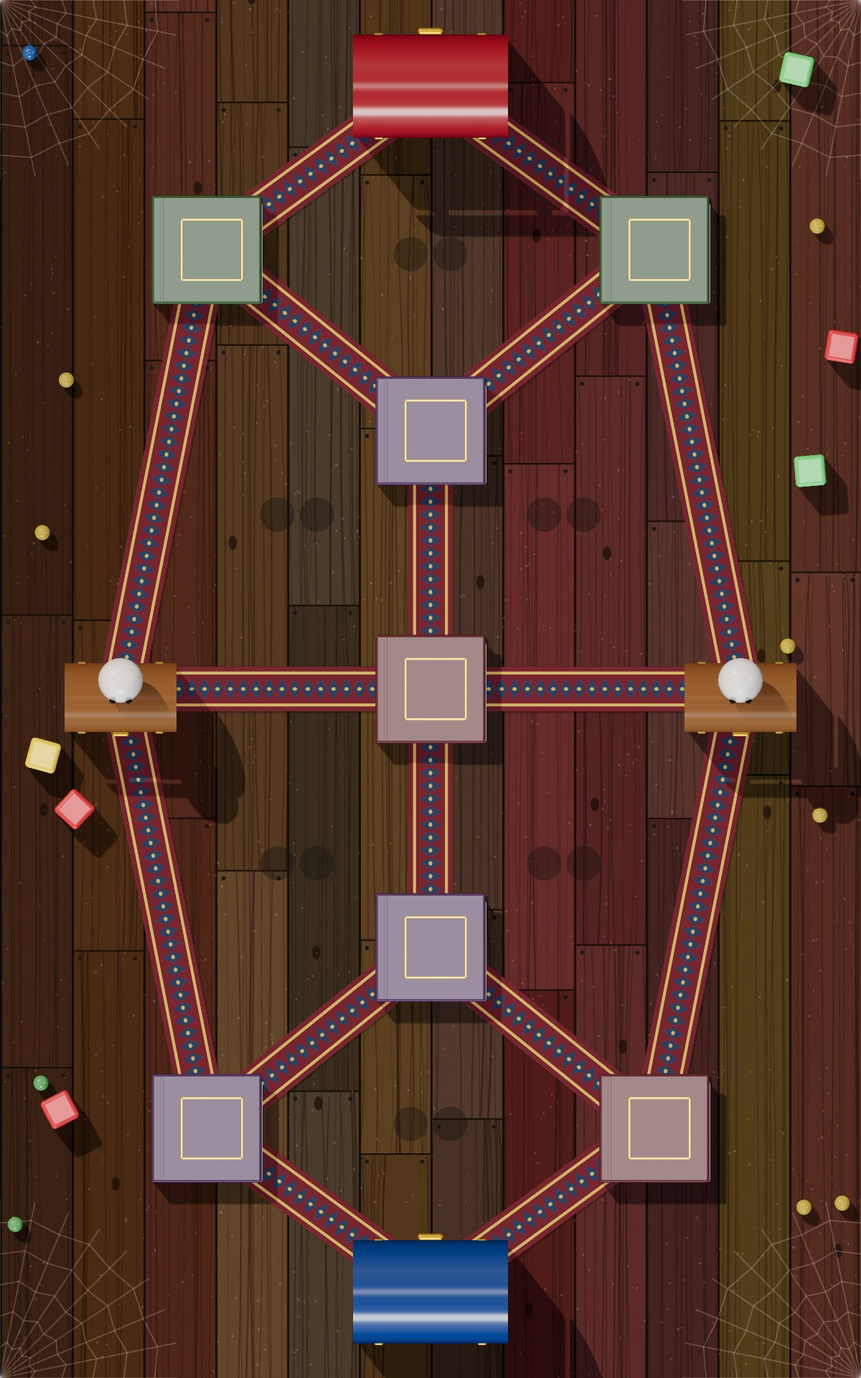
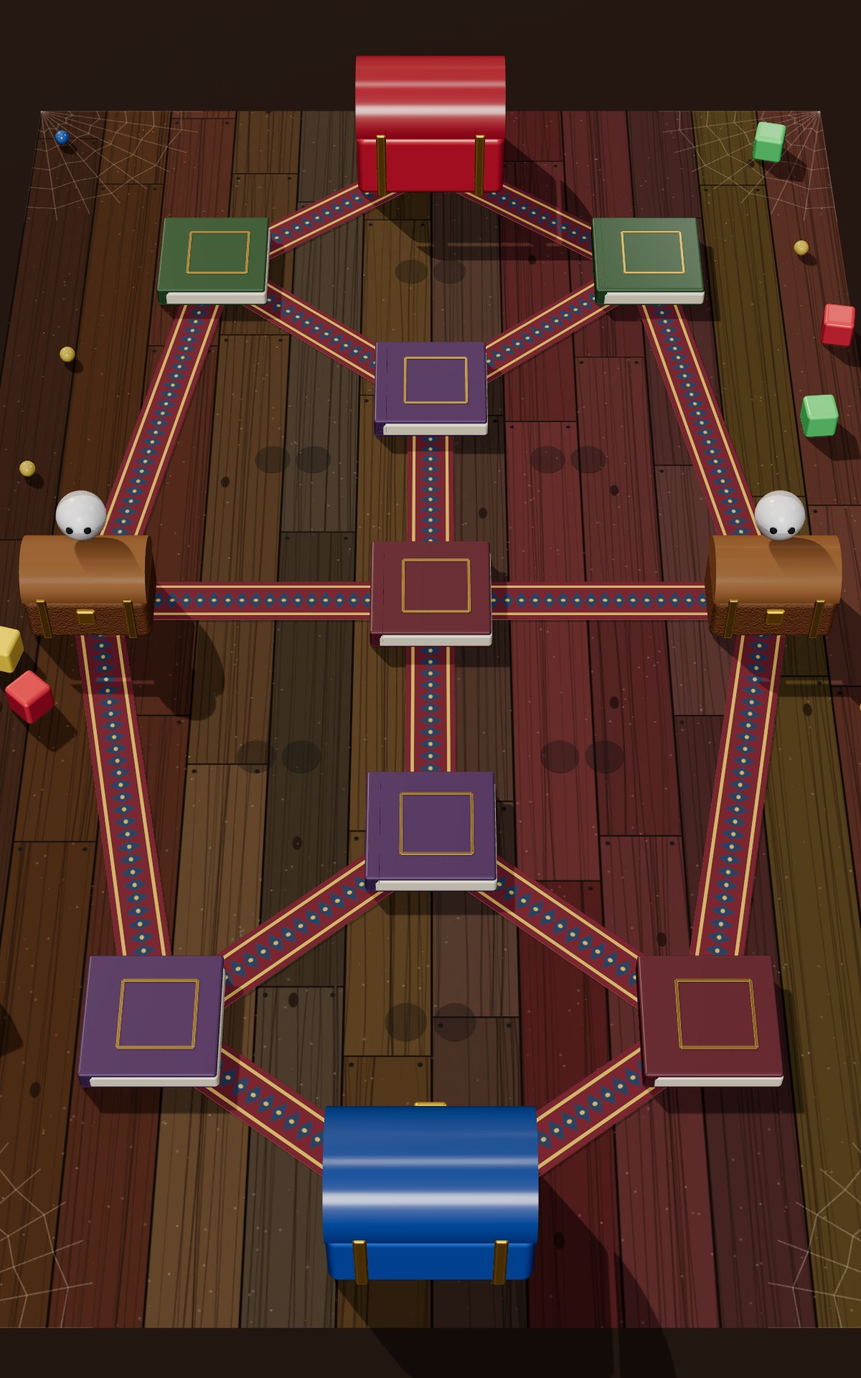
Arena view: angled 3D board camera, standing troops, new HUD and card tray (in progress)
Claude-Session: https://claude.ai/code/session_01JcXjzGuhMjiv5hGBxFbb7Y

diff --git a/js/layout.js b/js/layout.js
@@ -1,0 +1,2 @@
+// Generated by tools/render/render.cjs — screen positions of nodes on the angled board renders.
+export const LAYOUT = {"fort":{"r":{"nodes":{"HB":[500,210.51,0.91,0.62],"L0":[207.14,291.84,0.94,0.66],"R0":[792.86,291.84,0.94,0.66],"C1":[500,421.81,0.98,0.71],"L1":[158.5,487.26,1,0.74],"R1":[841.5,487.26,1,0.74],"L2":[169.23,692.21,1.07,0.84],"C2":[500,692.21,1.07,0.84],"R2":[830.77,692.21,1.07,0.84],"L3":[113.11,924.4,1.14,0.95],"R3":[886.89,924.4,1.14,0.95],"C3":[500,1012.13,1.16,1],"L4":[120.06,1211.62,1.23,1.11],"R4":[879.94,1211.62,1.23,1.11],"HR":[500,1394.82,1.27,1.2]},"medals":[[[478.35,311.71,0.94],[521.65,311.71,0.94]],[[315.91,480.01,0.99],[361.56,480.01,0.99]],[[638.44,480.01,0.99],[684.09,480.01,0.99]],[[251.01,633.81,1.04],[298.8,633.81,1.04]],[[701.2,633.81,1.04],[748.99,633.81,1.04]],[[240.51,778.63,1.08],[290.32,778.63,1.08]],[[709.68,778.63,1.08],[759.49,778.63,1.08]],[[288.85,962.48,1.14],[341.21,962.48,1.14]],[[658.79,962.48,1.14],[711.15,962.48,1.14]],[[472.09,1211.3,1.21],[527.91,1211.3,1.21]]]},"b":{"nodes":{"HB":[500,1394.82,1.27,1.2],"L0":[879.94,1211.62,1.23,1.11],"R0":[120.06,1211.62,1.23,1.11],"C1":[500,1012.13,1.16,1],"L1":[886.89,924.4,1.14,0.95],"R1":[113.11,924.4,1.14,0.95],"L2":[830.77,692.21,1.07,0.84],"C2":[500,692.21,1.07,0.84],"R2":[169.23,692.21,1.07,0.84],"L3":[841.5,487.26,1,0.74],"R3":[158.5,487.26,1,0.74],"C3":[500,421.81,0.98,0.71],"L4":[792.86,291.84,0.94,0.66],"R4":[207.14,291.84,0.94,0.66],"HR":[500,210.51,0.91,0.62]},"medals":[[[472.09,1211.3,1.21],[527.91,1211.3,1.21]],[[658.79,962.48,1.14],[711.15,962.48,1.14]],[[288.85,962.48,1.14],[341.21,962.48,1.14]],[[709.68,778.63,1.08],[759.49,778.63,1.08]],[[240.51,778.63,1.08],[290.32,778.63,1.08]],[[701.2,633.81,1.04],[748.99,633.81,1.04]],[[251.01,633.81,1.04],[298.8,633.81,1.04]],[[638.44,480.01,0.99],[684.09,480.01,0.99]],[[315.91,480.01,0.99],[361.56,480.01,0.99]],[[478.35,311.71,0.94],[521.65,311.71,0.94]]]}},"clouds":{"r":{"nodes":{"HB":[500,217.96,0.89,0.6],"L1":[191.1,349.61,0.94,0.66],"S1":[500,417.29,0.96,0.69],"R1":[808.9,349.61,0.94,0.66],"L2":[126.06,695.18,1.04,0.82],"M1":[333.8,695.18,1.04,0.82],"S2":[500,695.18,1.04,0.82],"M2":[666.2,695.18,1.04,0.82],"R2":[873.94,695.18,1.04,0.82],"L3":[115,1125.88,1.17,1.03],"S3":[500,1025.58,1.14,0.98],"R3":[885,1125.88,1.17,1.03],"HR":[500,1387.87,1.23,1.16]},"medals":[[[398.52,334.06,0.92]],[[601.48,334.06,0.92]],[[356.76,544.39,0.98],[402.04,544.39,0.98]],[[597.96,544.39,0.98],[643.24,544.39,0.98]],[[217.74,584.33,1]],[[782.26,584.33,1]],[[196.45,839.64,1.07]],[[803.55,839.64,1.07]],[[342.09,886.98,1.09],[392.02,886.98,1.09]],[[607.98,886.98,1.09],[657.91,886.98,1.09]],[[371.09,1181.53,1.17]],[[628.91,1181.53,1.17]]]},"b":{"nodes":{"HB":[500,1387.87,1.23,1.16],"L1":[885,1125.88,1.17,1.03],"S1":[500,1025.58,1.14,0.98],"R1":[115,1125.88,1.17,1.03],"L2":[873.94,695.18,1.04,0.82],"M1":[666.2,695.18,1.04,0.82],"S2":[500,695.18,1.04,0.82],"M2":[333.8,695.18,1.04,0.82],"R2":[126.06,695.18,1.04,0.82],"L3":[808.9,349.61,0.94,0.66],"S3":[500,417.29,0.96,0.69],"R3":[191.1,349.61,0.94,0.66],"HR":[500,217.96,0.89,0.6]},"medals":[[[628.91,1181.53,1.17]],[[371.09,1181.53,1.17]],[[607.98,886.98,1.09],[657.91,886.98,1.09]],[[342.09,886.98,1.09],[392.02,886.98,1.09]],[[803.55,839.64,1.07]],[[196.45,839.64,1.07]],[[782.26,584.33,1]],[[217.74,584.33,1]],[[597.96,544.39,0.98],[643.24,544.39,0.98]],[[356.76,544.39,0.98],[402.04,544.39,0.98]],[[601.48,334.06,0.92]],[[398.52,334.06,0.92]]]}},"lava":{"r":{"nodes":{"HB":[221.29,305.5,0.8,0.56],"a":[500,397.15,0.83,0.59],"b":[772.91,397.15,0.83,0.59],"c":[224.01,433.2,0.84,0.61],"d":[208.69,612.8,0.88,0.68],"e":[500,612.8,0.88,0.68],"f":[791.31,612.8,0.88,0.68],"g":[188.95,844.14,0.94,0.77],"h":[500,844.14,0.94,0.77],"i":[811.05,844.14,0.94,0.77],"j":[164.82,1126.95,1.02,0.9],"k":[500,1126.95,1.02,0.9],"l":[830.65,1073.89,1,0.87],"HR":[868.31,1304.34,1.05,0.97]},"medals":[[[358.65,441.26,0.83]],[[310.29,561.65,0.86]],[[620.66,512.44,0.85],[659.75,512.44,0.85]],[[308.66,735.21,0.91],[350.37,735.21,0.91],[392.09,735.21,0.91]],[[607.91,735.21,0.91],[649.63,735.21,0.91],[691.34,735.21,0.91]],[[710.36,927.65,0.96]],[[317.23,990.09,0.97],[361.95,990.09,0.97]],[[669.53,1087.77,1]]]},"b":{"nodes":{"HB":[868.31,1304.34,1.05,0.97],"a":[500,1126.95,1.02,0.9],"b":[164.82,1126.95,1.02,0.9],"c":[830.65,1073.89,1,0.87],"d":[811.05,844.14,0.94,0.77],"e":[500,844.14,0.94,0.77],"f":[188.95,844.14,0.94,0.77],"g":[791.31,612.8,0.88,0.68],"h":[500,612.8,0.88,0.68],"i":[208.69,612.8,0.88,0.68],"j":[772.91,397.15,0.83,0.59],"k":[500,397.15,0.83,0.59],"l":[224.01,433.2,0.84,0.61],"HR":[221.29,305.5,0.8,0.56]},"medals":[[[669.53,1087.77,1]],[[710.36,927.65,0.96]],[[317.23,990.09,0.97],[361.95,990.09,0.97]],[[607.91,735.21,0.91],[649.63,735.21,0.91],[691.34,735.21,0.91]],[[308.66,735.21,0.91],[350.37,735.21,0.91],[392.09,735.21,0.91]],[[310.29,561.65,0.86]],[[620.66,512.44,0.85],[659.75,512.44,0.85]],[[358.65,441.26,0.83]]]}},"attic":{"r":{"nodes":{"HB":[500,189.85,0.92,0.62],"a":[248.44,298.35,0.97,0.67],"b":[751.56,298.35,0.97,0.67],"c":[500,446.6,1.01,0.74],"d":[108.27,684.78,1.09,0.85],"e":[500,684.78,1.09,0.85],"f":[891.73,684.78,1.09,0.85],"g":[500,960.65,1.17,0.99],"h":[176.79,1181.27,1.24,1.11],"i":[823.21,1181.27,1.24,1.11],"HR":[500,1414.86,1.3,1.23]},"medals":[[[477.85,315.3,0.96],[522.15,315.3,0.96]],[[316.56,533.56,1.03],[363.97,533.56,1.03]],[[636.03,533.56,1.03],[683.44,533.56,1.03]],[[297.59,878.58,1.14],[349.9,878.58,1.14]],[[650.1,878.58,1.14],[702.41,878.58,1.14]],[[471.66,1186.76,1.23],[528.34,1186.76,1.23]]]},"b":{"nodes":{"HB":[500,1414.86,1.3,1.23],"a":[823.21,1181.27,1.24,1.11],"b":[176.79,1181.27,1.24,1.11],"c":[500,960.65,1.17,0.99],"d":[891.73,684.78,1.09,0.85],"e":[500,684.78,1.09,0.85],"f":[108.27,684.78,1.09,0.85],"g":[500,446.6,1.01,0.74],"h":[751.56,298.35,0.97,0.67],"i":[248.44,298.35,0.97,0.67],"HR":[500,189.85,0.92,0.62]},"medals":[[[471.66,1186.76,1.23],[528.34,1186.76,1.23]],[[650.1,878.58,1.14],[702.41,878.58,1.14]],[[297.59,878.58,1.14],[349.9,878.58,1.14]],[[636.03,533.56,1.03],[683.44,533.56,1.03]],[[316.56,533.56,1.03],[363.97,533.56,1.03]],[[477.85,315.3,0.96],[522.15,315.3,0.96]]]}},"bay":{"r":{"nodes":{"HB1":[160.87,216.07,0.92,0.62],"HB2":[839.13,216.07,0.92,0.62],"a":[156.76,393.79,0.98,0.7],"b":[500,331.66,0.96,0.68],"c":[843.24,393.79,0.98,0.7],"d":[323.15,587.92,1.04,0.79],"e":[685.52,556.53,1.03,0.78],"f":[110.41,825.22,1.11,0.91],"g":[500,843.45,1.12,0.92],"h":[887.65,807.17,1.11,0.9],"i":[259.32,1119.33,1.2,1.06],"j":[740.68,1119.33,1.2,1.06],"HR":[500,1389.67,1.27,1.2]},"medals":[[[284.46,386.06,0.97]],[[717.49,379.13,0.97]],[[503.35,501.04,1]],[[246.62,665.17,1.05],[295.09,665.17,1.05]],[[503.52,670.65,1.06]],[[802.36,590.25,1.03]],[[690.33,743.47,1.08]],[[291.74,936.46,1.14]],[[707.91,930.11,1.13]],[[472.61,1117.29,1.19],[527.39,1117.29,1.19]]]},"b":{"nodes":{"HB1":[873.16,1286.48,1.01,0.93],"HB2":[126.84,1286.48,1.01,0.93],"a":[833.18,1024.65,0.95,0.82],"b":[500,1099.73,0.97,0.85],"c":[166.82,1024.65,0.95,0.82],"d":[653.31,823.13,0.9,0.73],"e":[336.35,852.74,0.91,0.75],"f":[798.69,628.57,0.85,0.66],"g":[500,615.47,0.85,0.65],"h":[200.16,641.77,0.86,0.66],"i":[661.4,442.04,0.81,0.59],"j":[338.6,442.04,0.81,0.59],"HR":[500,323.6,0.77,0.54]},"medals":[[[711.98,1058.6,0.95]],[[285.18,1066.87,0.95]],[[496.93,930.79,0.92]],[[671.71,775.36,0.88],[712.32,775.36,0.88]],[[497.06,770.64,0.88]],[[236.16,842.82,0.9]],[[346.87,710.36,0.87]],[[652.57,570.31,0.83]],[[347.24,574.51,0.83]],[[481.49,460.05,0.8],[518.51,460.05,0.8]]]}},"trenches":{"r":{"nodes":{"HB":[500,237.14,0.88,0.6],"a":[201.15,309.88,0.91,0.63],"b":[798.85,309.88,0.91,0.63],"c":[181.04,519.3,0.97,0.72],"s1":[500,455.65,0.95,0.69],"d":[818.96,519.3,0.97,0.72],"e":[326.65,701.86,1.02,0.8],"f":[673.35,701.86,1.02,0.8],"g":[143.93,905.65,1.08,0.9],"s2":[500,988.32,1.1,0.94],"h":[856.07,905.65,1.08,0.9],"i":[115,1206.83,1.17,1.05],"j":[885,1206.83,1.17,1.05],"HR":[500,1369.46,1.2,1.13]},"medals":[[[479.2,335.23,0.9],[520.8,335.23,0.9]],[[294.48,438.36,0.93]],[[705.52,438.36,0.93]],[[338.07,567.99,0.97]],[[500,627.87,0.99]],[[661.93,567.99,0.97]],[[219.57,713.76,1.01]],[[780.43,713.76,1.01]],[[500,804.06,1.04]],[[323.43,872.71,1.06]],[[676.57,872.71,1.06]],[[256.29,1040.33,1.11]],[[743.71,1040.33,1.11]],[[473.49,1196.19,1.15],[526.51,1196.19,1.15]]]},"b":{"nodes":{"HB":[500,1369.46,1.2,1.13],"a":[885,1206.83,1.17,1.05],"b":[115,1206.83,1.17,1.05],"c":[856.07,905.65,1.08,0.9],"s1":[500,988.32,1.1,0.94],"d":[143.93,905.65,1.08,0.9],"e":[673.35,701.86,1.02,0.8],"f":[326.65,701.86,1.02,0.8],"g":[818.96,519.3,0.97,0.72],"s2":[500,455.65,0.95,0.69],"h":[181.04,519.3,0.97,0.72],"i":[798.85,309.88,0.91,0.63],"j":[201.15,309.88,0.91,0.63],"HR":[500,237.14,0.88,0.6]},"medals":[[[473.49,1196.19,1.15],[526.51,1196.19,1.15]],[[743.71,1040.33,1.11]],[[256.29,1040.33,1.11]],[[676.57,872.71,1.06]],[[500,804.06,1.04]],[[323.43,872.71,1.06]],[[780.43,713.76,1.01]],[[219.57,713.76,1.01]],[[500,627.87,0.99]],[[661.93,567.99,0.97]],[[338.07,567.99,0.97]],[[705.52,438.36,0.93]],[[294.48,438.36,0.93]],[[479.2,335.23,0.9],[520.8,335.23,0.9]]]}},"pool":{"r":{"nodes":{"HB1":[221.29,305.5,0.8,0.56],"HB2":[778.71,305.5,0.8,0.56],"a":[500,379.42,0.82,0.59],"b":[217.65,507.81,0.86,0.64],"d":[782.35,507.81,0.86,0.64],"c":[500,559.48,0.87,0.66],"e":[262.96,724.68,0.91,0.72],"m":[500,724.68,0.91,0.72],"f":[737.04,724.68,0.91,0.72],"g":[500,906.96,0.96,0.8],"h":[178.04,971.97,0.98,0.83],"i":[821.96,971.97,0.98,0.83],"j":[500,1154.02,1.02,0.91],"HR1":[131.69,1304.34,1.05,0.97],"HR2":[868.31,1304.34,1.05,0.97]},"medals":[[[339.45,442.77,0.83],[377.72,442.77,0.83]],[[622.28,442.77,0.83],[660.55,442.77,0.83]],[[349.67,637.14,0.88],[390.23,637.14,0.88]],[[609.77,637.14,0.88],[650.33,637.14,0.88]],[[340.85,839.03,0.93],[383.78,839.03,0.93]],[[616.22,839.03,0.93],[659.15,839.03,0.93]],[[307.64,1085.59,1],[353.49,1085.59,1]],[[646.51,1085.59,1],[692.36,1085.59,1]]]},"b":{"nodes":{"HB1":[868.31,1304.34,1.05,0.97],"HB2":[131.69,1304.34,1.05,0.97],"a":[500,1154.02,1.02,0.91],"b":[821.96,971.97,0.98,0.83],"d":[178.04,971.97,0.98,0.83],"c":[500,906.96,0.96,0.8],"e":[737.04,724.68,0.91,0.72],"m":[500,724.68,0.91,0.72],"f":[262.96,724.68,0.91,0.72],"g":[500,559.48,0.87,0.66],"h":[782.35,507.81,0.86,0.64],"i":[217.65,507.81,0.86,0.64],"j":[500,379.42,0.82,0.59],"HR1":[778.71,305.5,0.8,0.56],"HR2":[221.29,305.5,0.8,0.56]},"medals":[[[646.51,1085.59,1],[692.36,1085.59,1]],[[307.64,1085.59,1],[353.49,1085.59,1]],[[616.22,839.03,0.93],[659.15,839.03,0.93]],[[340.85,839.03,0.93],[383.78,839.03,0.93]],[[609.77,637.14,0.88],[650.33,637.14,0.88]],[[349.67,637.14,0.88],[390.23,637.14,0.88]],[[622.28,442.77,0.83],[660.55,442.77,0.83]],[[339.45,442.77,0.83],[377.72,442.77,0.83]]]}},"rocket":{"r":{"nodes":{"HB":[227.29,292.31,0.83,0.57],"a":[500,297.28,0.84,0.58],"b":[212.47,430.71,0.87,0.63],"d":[784.74,399.39,0.86,0.62],"c":[500,469.12,0.88,0.65],"e":[187.88,604.01,0.92,0.7],"f":[810.84,590.02,0.91,0.7],"x1":[300.64,720.21,0.95,0.75],"x2":[500,720.21,0.95,0.75],"x3":[699.36,720.21,0.95,0.75],"g":[164.35,860.78,0.99,0.81],"h":[834.17,844.61,0.98,0.81],"i":[500,1013.05,1.03,0.88],"j":[151.83,1112.5,1.06,0.93],"k":[844.1,1066.66,1.04,0.91],"l":[500,1276.81,1.1,1.01],"HR":[863.01,1316.74,1.1,1.02]},"medals":[[[340.22,378.8,0.85],[379.32,378.8,0.85]],[[594.07,398.65,0.86]],[[696.79,495.78,0.88]],[[319.33,595.75,0.91],[361.1,595.75,0.91]],[[605.09,632.87,0.92],[647.3,632.87,0.92]],[[219.53,736.19,0.95]],[[779.68,726.2,0.94]],[[344.01,835.31,0.97],[388.72,835.31,0.97]],[[650.44,877.88,0.98],[695.67,877.88,0.98]],[[272.95,1002.8,1.02]],[[384.11,1140.85,1.05]],[[650.76,1171.41,1.06],[699.6,1171.41,1.06]]]},"b":{"nodes":{"HB":[863.01,1316.74,1.1,1.02],"a":[500,1276.81,1.1,1.01],"b":[844.1,1066.66,1.04,0.91],"d":[151.83,1112.5,1.06,0.93],"c":[500,1013.05,1.03,0.88],"e":[834.17,844.61,0.98,0.81],"f":[164.35,860.78,0.99,0.81],"x1":[699.36,720.21,0.95,0.75],"x2":[500,720.21,0.95,0.75],"x3":[300.64,720.21,0.95,0.75],"g":[810.84,590.02,0.91,0.7],"h":[187.88,604.01,0.92,0.7],"i":[500,469.12,0.88,0.65],"j":[784.74,399.39,0.86,0.62],"k":[212.47,430.71,0.87,0.63],"l":[500,297.28,0.84,0.58],"HR":[227.29,292.31,0.83,0.57]},"medals":[[[650.76,1171.41,1.06],[699.6,1171.41,1.06]],[[384.11,1140.85,1.05]],[[272.95,1002.8,1.02]],[[650.44,877.88,0.98],[695.67,877.88,0.98]],[[344.01,835.31,0.97],[388.72,835.31,0.97]],[[779.68,726.2,0.94]],[[219.53,736.19,0.95]],[[605.09,632.87,0.92],[647.3,632.87,0.92]],[[319.33,595.75,0.91],[361.1,595.75,0.91]],[[696.79,495.78,0.88]],[[594.07,398.65,0.86]],[[340.22,378.8,0.85],[379.32,378.8,0.85]]]}}};

diff --git a/js/board.js b/js/board.js
@@ -1,9 +1,10 @@
 // SVG board renderer. Two layers:
 //  - static: terrain art (textures, paths, bases, H.Q.) — rendered once per map/orientation
 //  - dynamic: medals, troops, highlights and tap targets — re-rendered every update
-import { TEAM, troopArtGroup } from './troops.js';
+import { TEAM } from './troops.js';
 import { topOf, ownerOf, typeOf } from './engine.js';
-import { shade, C, E, R, P } from './paint.js';
+import { C, P } from './paint.js';
+import { LAYOUT } from './layout.js';
 
 export const W = 1000, H = 1600;
 const BASE = 128, HQ = 176;
@@ -56,88 +57,89 @@ const BOARD_DEFS = `
     <stop offset=".64" stop-color="#fff" stop-opacity=".4"/><stop offset=".8" stop-color="#fff" stop-opacity="0"/><stop offset="1" stop-color="#000" stop-opacity=".55"/></radialGradient>`;
 
 // ------------------------------------------------------------------ rendering
-const posFn = (m, flip) => (id) => { const n = m.nodes[id]; return flip ? { x: W - n.x, y: H - n.y } : { x: n.x, y: n.y }; };
+// Node positions on the angled renders: [x, y, scaleX, scaleY] in the 1000 x 1600 image space.
+const lay = (m, flip) => LAYOUT[m.id][flip ? 'b' : 'r'];
 
 // Terrain is a pre-rendered 3D image (tools/render); effect badges are drawn on top.
 export function renderStatic(m, { flip = false, lite = false } = {}) {
-  const P_ = posFn(m, flip);
+  const L = lay(m, flip);
   const src = lite ? `assets/boards/${m.id}-thumb.jpg` : `assets/boards/${m.id}-${flip ? 'b' : 'r'}.jpg`;
   let out = `<svg class="board board-static theme-${m.theme}" viewBox="0 0 ${W} ${H}" xmlns="http://www.w3.org/2000/svg"><defs>${BOARD_DEFS}</defs>`;
   out += `<image href="${src}" x="0" y="0" width="${W}" height="${H}" preserveAspectRatio="none"/>`;
   if (!lite) {
     for (const id in m.nodes) {
-      const n = m.nodes[id], p = P_(id);
-      if (n.special && n.special !== 'restrict') out += badge(p.x + 58, p.y + 54, n.special);
-      if (n.allow) out += allowTag(p.x, p.y + (n.hq ? 96 : 84), n.allow);
+      const n = m.nodes[id], [x, y, sx, sy] = L.nodes[id];
+      if (n.special && n.special !== 'restrict') out += `<g transform="translate(${x + 60 * sx} ${y + 50 * sy}) scale(${sx})">${badge(0, 0, n.special)}</g>`;
+      if (n.allow) out += `<g transform="translate(${x} ${y + (n.hq ? 92 : 80) * sy}) scale(${sx})">${allowTag(0, 0, n.allow)}</g>`;
     }
     out += `<rect width="${W}" height="${H}" fill="url(#b-vignette)" pointer-events="none"/>`;
   }
   return out + '</svg>';
 }
 
-function tokenSVG(s, nodeId, p, opts) {
+// A troop stands on its base as a 3D figure; covered troops show as stacked discs.
+function tokenSVG(s, nodeId, [x, y, sx, sy], opts) {
   const st = s.stacks[nodeId];
   if (!st || !st.length) return '';
   const top = topOf(s, nodeId);
   const color = ownerOf(top), t = typeOf(top), c = TEAM[color];
-  const depth = st.length;
-  let under = '';
-  for (let i = Math.min(depth - 1, 3); i >= 1; i--) {
-    const below = st[st.length - 1 - i];
-    under += R(p.x - 56 + i * 7, p.y - 56 + i * 7, 112, 112, 16, TEAM[ownerOf(below)].dark, 'v');
+  const depth = st.length, k = sx;
+  let discs = '';
+  const n = Math.min(depth, 4);
+  for (let i = n - 1; i >= 0; i--) {
+    const id = st[st.length - 1 - i], tc = TEAM[ownerOf(id)];
+    discs += `<ellipse cx="0" cy="${i * 9 * sy}" rx="${56 * sx}" ry="${56 * sy}" fill="${i ? tc.dark : tc.main}" stroke="${i ? '#0008' : '#fff'}" stroke-width="${i ? 2 : 4}"/>`;
   }
   const fresh = opts.fresh?.has(nodeId) ? ' fresh' : '';
-  return `<g class="stack" data-node="${nodeId}">
-    <rect x="${p.x - 50}" y="${p.y - 44}" width="${112 + (depth - 1) * 7}" height="${112 + (depth - 1) * 7}" rx="16" fill="#000" opacity=".45" filter="url(#f-blur2)"/>
-    ${under}
-    <g transform="translate(${p.x} ${p.y})"><g class="token${fresh}">
-      ${R(-56, -56, 112, 112, 16, c.main, 'v')}
-      ${R(-49, -49, 98, 98, 11, shade(c.dark, -0.35), '')}
-      ${R(-49, -49, 98, 98, 11, c.light, 's', 'opacity=".55"')}
-      <rect x="-54" y="-54" width="108" height="108" rx="15" fill="none" stroke="#fff" stroke-opacity=".35" stroke-width="2"/>
-      <g class="bob t${t}"><g transform="translate(-47 -42) scale(.92)">${troopArtGroup(t, color)}</g></g>
-      <g transform="translate(-46 -46)">${C(0, 0, 19, '#f3f5f8')}<circle r="19" fill="none" stroke="${c.dark}" stroke-width="3"/></g>
-      <text x="-46" y="-37" text-anchor="middle" font-size="26" font-weight="900" fill="${c.dark}" font-family="Nunito, sans-serif">${t === 0 ? '★' : t}</text>
-      ${depth > 1 ? `<g transform="translate(44 46)">${C(0, 0, 16, '#222', 'r')}<text y="7" text-anchor="middle" font-size="19" font-weight="800" fill="#fff" font-family="Nunito, sans-serif">${depth}</text></g>` : ''}
-    </g></g></g>`;
+  return `<g class="stack" data-node="${nodeId}" transform="translate(${x} ${y})">
+    <ellipse cx="${6 * sx}" cy="${(10 + (n - 1) * 9) * sy}" rx="${62 * sx}" ry="${60 * sy}" fill="#000" opacity=".35" filter="url(#f-blur2)"/>
+    ${discs}
+    <ellipse cx="0" cy="0" rx="${42 * sx}" ry="${42 * sy}" fill="${c.light}" opacity=".35"/>
+    <g class="token${fresh}"><g class="bob t${t}">
+      <image href="assets/troops/${t}-${color}.png" x="${-90 * k}" y="${-150 * k}" width="${180 * k}" height="${180 * k}"/>
+    </g></g>
+    <g transform="translate(${-58 * k} ${-118 * k}) scale(${k})">
+      ${C(0, 0, 21, c.main)}<circle r="21" fill="none" stroke="#fff" stroke-width="3.5"/>
+      <text y="9" text-anchor="middle" font-size="26" font-weight="900" fill="#fff" stroke="${c.dark}" stroke-width="1.5" font-family="'Lilita One', Nunito, sans-serif">${t === 0 ? '★' : t}</text>
+    </g>
+    ${depth > 1 ? `<g transform="translate(${56 * k} ${-112 * k}) scale(${k})">${C(0, 0, 16, '#222', 'r')}<text y="6.5" text-anchor="middle" font-size="18" font-weight="800" fill="#fff" font-family="Nunito, sans-serif">×${depth}</text></g>` : ''}
+  </g>`;
 }
 
 export function renderDynamic(s, m, opts = {}) {
-  const P_ = posFn(m, !!opts.flip);
-  const flip = !!opts.flip;
+  const L = lay(m, !!opts.flip);
   let out = `<svg class="board board-dyn" viewBox="0 0 ${W} ${H}" xmlns="http://www.w3.org/2000/svg">`;
   out += '<g class="medals">';
   m.regions.forEach((r, i) => {
-    const rx = flip ? W - r.x : r.x, ry = flip ? H - r.y : r.y;
     const taken = s.taken[i];
-    for (let k = 0; k < r.medals; k++) {
-      const x = rx + (k - (r.medals - 1) / 2) * 46;
-      if (taken) out += `<circle cx="${x}" cy="${ry}" r="17" fill="none" stroke="${TEAM[taken].main}" stroke-width="4" stroke-dasharray="6 5"/>`;
-      else out += `<image class="medal" href="assets/medal.png" x="${x - 23}" y="${ry - 23}" width="46" height="46"/>`;
+    for (const [x, y, k] of L.medals[i]) {
+      if (taken) out += `<ellipse cx="${x}" cy="${y}" rx="${17 * k}" ry="${12 * k}" fill="none" stroke="${TEAM[taken].main}" stroke-width="${4 * k}" stroke-dasharray="${6 * k} ${5 * k}"/>`;
+      else out += `<image class="medal" href="assets/medal.png" x="${x - 26 * k}" y="${y - 30 * k}" width="${52 * k}" height="${52 * k}"/>`;
     }
   });
   out += '</g>';
-  if (opts.recent) for (const id of opts.recent) { const p = P_(id); out += `<g class="recent"><rect x="${p.x - 75}" y="${p.y - 75}" width="150" height="150" rx="26" fill="none" stroke="#ff9f1c" stroke-width="8"/></g>`; }
-  out += '<g class="tokens">';
-  for (const id in s.stacks) out += tokenSVG(s, id, P_(id), opts);
-  out += '</g>';
+  const ring = (id, rpx, cls, extra = '') => { const [x, y, sx, sy] = L.nodes[id]; return `<ellipse class="${cls}" cx="${x}" cy="${y}" rx="${rpx * sx}" ry="${rpx * sy}" fill="none" ${extra}/>`; };
+  if (opts.recent) for (const id of opts.recent) out += `<g class="recent">${ring(id, 82, '', 'stroke="#ff9f1c" stroke-width="8"')}</g>`;
   if (opts.highlight) {
     out += '<g class="hl">';
-    for (const [id, kind] of opts.highlight) {
-      const p = P_(id), size = m.nodes[id].hq ? HQ + 14 : BASE + 26;
-      out += `<g class="hl-${kind}" data-node="${id}"><rect class="hl-ring" fill="none" x="${p.x - size / 2}" y="${p.y - size / 2}" width="${size}" height="${size}" rx="30"/></g>`;
-    }
+    for (const [id, kind] of opts.highlight) out += `<g class="hl-${kind}" data-node="${id}">${ring(id, m.nodes[id].hq ? 104 : 80, 'hl-ring')}</g>`;
     out += '</g>';
   }
+  // troops, far to near so nearer figures overlap farther ones
+  const ids = Object.keys(s.stacks).filter((id) => s.stacks[id].length).sort((a, b) => L.nodes[a][1] - L.nodes[b][1]);
+  out += '<g class="tokens">';
+  for (const id of ids) out += tokenSVG(s, id, L.nodes[id], opts);
+  out += '</g>';
   if (opts.ghost) {
-    const p = P_(opts.ghost.node), t = typeOf(opts.ghost.id), color = ownerOf(opts.ghost.id), c = TEAM[color];
-    out += `<g class="ghost-token" transform="translate(${p.x} ${p.y})">${R(-56, -56, 112, 112, 16, c.main, 'v', 'stroke="#fff" stroke-width="6"')}
-      <g class="bob t${t}"><g transform="translate(-47 -42) scale(.92)">${troopArtGroup(t, color)}</g></g></g>`;
+    const [x, y, sx, sy] = L.nodes[opts.ghost.node], t = typeOf(opts.ghost.id), color = ownerOf(opts.ghost.id), c = TEAM[color];
+    out += `<g class="ghost-token" transform="translate(${x} ${y})"><ellipse rx="${56 * sx}" ry="${56 * sy}" fill="${c.main}" stroke="#fff" stroke-width="5"/>
+      <g class="bob t${t}"><image href="assets/troops/${t}-${color}.png" x="${-90 * sx}" y="${-150 * sx}" width="${180 * sx}" height="${180 * sx}"/></g></g>`;
   }
+  // tap targets: base footprint plus the space a standing figure occupies, nearest on top
   out += '<g class="hits">';
-  for (const id in m.nodes) {
-    const p = P_(id), size = m.nodes[id].hq ? HQ + 20 : BASE + 30;
-    out += `<rect class="hit" data-node="${id}" x="${p.x - size / 2}" y="${p.y - size / 2}" width="${size}" height="${size}" fill="transparent"/>`;
+  for (const id of Object.keys(m.nodes).sort((a, b) => L.nodes[a][1] - L.nodes[b][1])) {
+    const [x, y, sx, sy] = L.nodes[id], w = (m.nodes[id].hq ? 190 : 150) * sx, up = 120 * sx, down = 75 * sy;
+    out += `<rect class="hit" data-node="${id}" x="${x - w / 2}" y="${y - up}" width="${w}" height="${up + down}" fill="transparent"/>`;
   }
   return out + '</g></svg>';
 }

diff --git a/css/style.css b/css/style.css
@@ -286,3 +286,84 @@ img.troop-art { width: 100%; height: 100%; object-fit: contain; display: block; 
 .card-art img.troop-art.idle { animation: bob 2.4s ease-in-out infinite; }
 .card-art img.t0.idle { animation: boing 1.6s ease-in-out infinite; }
 .card-art img.t7.idle, .card-art img.t5.idle { animation: stomp 1.8s ease-in-out infinite; }
+
+/* =====================================================================
+   Arena layout: full-bleed angled board with floating HUD and card tray
+   ===================================================================== */
+.game { background: #141a2e; }
+.game[data-theme="fort"] { background: #3d7426; }
+.game[data-theme="clouds"] { background: #e7c3e6; }
+.game[data-theme="lava"] { background: #2a1c16; }
+.game[data-theme="attic"] { background: #33221a; }
+.game[data-theme="bay"] { background: #d9e1e8; }
+.game[data-theme="trenches"] { background: #cfa962; }
+.game[data-theme="pool"] { background: #e2c18a; }
+.game[data-theme="rocket"] { background: #181c2d; }
+.game .board-wrap { position: absolute; inset: 0; z-index: 0; }
+.game .board-holder > div { inset: 0; }
+.bl-static svg { filter: none; }
+.game .hud-top { position: absolute; top: 0; left: 0; right: 0; background: linear-gradient(#0b1024ee, #0b102400); border: 0; padding-bottom: 22px; }
+.game .prompt { position: absolute; left: 8px; right: 8px; bottom: calc(var(--tray-h, 196px) + 6px); z-index: 4; }
+.game .prompt .bar { border-radius: 14px; border: 3px solid #0b1024; box-shadow: 0 6px 0 #0006, inset 0 2px 0 #fff8; }
+.game .prompt .bar.hint, .game .prompt .bar.recap { background: linear-gradient(#2c3878f2, #1b2352f2); }
+.game .toast-layer { top: 84px; }
+
+/* plates (player banners) */
+.plate { display: flex; align-items: center; gap: 6px; padding: 3px 8px 3px 3px; border-radius: 12px; min-width: 0; flex: 1 1 auto; max-width: 250px;
+  background: linear-gradient(#3d4c9a, #222c66); border: 2px solid #0b1024; box-shadow: inset 0 2px 0 #ffffff44, 0 3px 0 #0007; }
+.plate.red { background: linear-gradient(#d4484d, #8f1d22); }
+.plate.blue { background: linear-gradient(#4a86dc, #173f7a); }
+.plate.active { box-shadow: 0 0 0 3px var(--gold), 0 0 16px #ffd34d99, inset 0 2px 0 #ffffff55; }
+.plate-avatar { width: 40px; height: 40px; border-radius: 9px; background: radial-gradient(#ffffff55, #0003); flex: none; overflow: hidden; }
+.plate-info { min-width: 0; flex: 1; }
+.plate .pname { color: #fff !important; font-size: 16px; text-shadow: 0 2px 0 #0008; max-width: 100%; }
+.plate-sub { font-size: 10.5px; color: #ffffffcc; white-space: nowrap; font-weight: 800; }
+.plate-medals { display: flex; align-items: center; gap: 2px; background: #0b102488; border-radius: 10px; padding: 2px 7px 2px 3px; flex: none; }
+.plate-medals img { width: 24px; height: 24px; }
+.plate-medals b { font-family: 'Lilita One'; font-size: 20px; color: var(--gold); text-shadow: 0 2px 0 #000; }
+.plate-medals small { font-size: 11px; color: #fff9; font-weight: 800; }
+
+/* card tray */
+.game .hand-area { position: absolute; left: 0; right: 0; bottom: 0; z-index: 3; border: 0; padding: 8px 8px calc(8px + var(--safe-b));
+  background: linear-gradient(#2a3157f4, #141a33fa); border-top: 3px solid #0b1024; box-shadow: 0 -2px 0 #ffffff22 inset, 0 -8px 20px #0007; border-radius: 22px 22px 0 0; }
+.game .hud-me { margin-bottom: 4px; }
+.game .hud-me .plate { flex: 0 1 auto; max-width: 200px; }
+.game .hud-me .plate-avatar { display: none; }
+.turn-pill { font-size: 14px; padding: 5px 14px; box-shadow: inset 0 2px 0 #fff4; }
+.turn-pill.mine { background: linear-gradient(#ffe066, #f2a900); color: #4a2a00; border: 2px solid #7a4a00; box-shadow: inset 0 2px 0 #fff9, 0 3px 0 #0006; }
+.discard-btn { background: linear-gradient(#4a5486, #2a3157); border: 2px solid #0b1024; box-shadow: inset 0 2px 0 #fff4, 0 3px 0 #0006; border-radius: 10px; }
+.game .hand-row { gap: 8px; align-items: stretch; }
+.game .hand { padding-top: 14px; gap: 7px; }
+.game .card { width: calc((min(100vw, 560px) - 120px) / 4); max-width: 92px; height: auto; aspect-ratio: 3 / 4; border-radius: 12px; border: 3px solid #0b1024;
+  box-shadow: inset 0 2px 0 #ffffff88, inset 0 -3px 0 #0005, 0 5px 0 #0b1024; }
+.game .card::before { inset: 6px 6px 20px; }
+.game .card-name { font-size: 13px; bottom: 3px; }
+.game .card-badge { width: 32px; height: 32px; font-size: 20px; top: -11px; left: -10px; background: radial-gradient(circle at 35% 30%, #fff6c8, #ffd34d 55%, #c28a00); color: #5a3500; border: 3px solid #0b1024; }
+.game .card.selected { transform: translateY(-16px) scale(1.06); box-shadow: 0 0 0 4px var(--gold), 0 0 22px #ffd34dcc, 0 10px 0 #0b1024; }
+.game .draw-btn { width: 64px; justify-content: flex-end; }
+.game .db-card .card-back { width: 56px; height: 74px; border-radius: 10px; border-width: 3px; box-shadow: inset 0 2px 0 #fff6, 0 4px 0 #0b1024; }
+.game .draw-btn small { color: #c9d2ff; font-weight: 800; margin-top: 3px; }
+
+/* rack meter */
+.rack-meter { display: flex; align-items: center; gap: 8px; margin-top: 7px; }
+.rm-bar { flex: 1; display: flex; gap: 3px; padding: 4px; border-radius: 99px; background: #0b1024; box-shadow: inset 0 2px 4px #000a; }
+.rm-bar i { flex: 1; height: 12px; border-radius: 99px; background: #2a3157; }
+.rm-bar.red i.on { background: linear-gradient(#ff9a9e, #d23c41 60%, #8f1d22); box-shadow: inset 0 1px 0 #fff8; }
+.rm-bar.blue i.on { background: linear-gradient(#9cc6ff, #2f6fc6 60%, #173f7a); box-shadow: inset 0 1px 0 #fff8; }
+.rm-bar i.pin { background: repeating-linear-gradient(45deg, #777 0 4px, #444 4px 8px) !important; }
+.rm-label { font-family: 'Lilita One'; font-size: 20px; color: #fff; text-shadow: 0 2px 0 #000; min-width: 40px; }
+.rm-label small { font-size: 12px; color: #fff9; }
+
+/* turn banner */
+.turn-banner { position: absolute; inset: 0; display: flex; align-items: center; justify-content: center; pointer-events: none; z-index: 15; }
+.turn-banner .tb-inner { opacity: 0; font-family: 'Lilita One'; font-size: 52px; color: #fff; letter-spacing: 1px; padding: 10px 34px; border-radius: 16px; transform: scale(2);
+  text-shadow: 0 4px 0 #0008, 0 0 18px #fff8; -webkit-text-stroke: 2px #0b1024; }
+.turn-banner .tb-inner.red { background: linear-gradient(90deg, #d23c4100, #d23c41ee 20%, #d23c41ee 80%, #d23c4100); }
+.turn-banner .tb-inner.blue { background: linear-gradient(90deg, #2f6fc600, #2f6fc6ee 20%, #2f6fc6ee 80%, #2f6fc600); }
+.turn-banner.show .tb-inner { animation: slam 1.5s cubic-bezier(.2, 1.4, .4, 1) forwards; }
+@keyframes slam { 0% { opacity: 0; transform: scale(2.4); } 18% { opacity: 1; transform: scale(1); } 75% { opacity: 1; transform: scale(1); } 100% { opacity: 0; transform: scale(.9) translateY(-20px); } }
+
+/* board figure + rings */
+.hl-ring { stroke-width: 9; }
+svg .stack .bob { transform-origin: 50% 100%; }
+.game .board-wrap { top: var(--top-h, 52px); bottom: calc(var(--tray-h, 196px) - 14px); }

diff --git a/tools/render/boards.js b/tools/render/boards.js
@@ -348,6 +348,8 @@ export function buildBoard(mapId, flip) {
   const ground = mesh(new THREE.PlaneGeometry(BW, BH), new THREE.MeshStandardMaterial({ map: tex, roughness: 0.95, metalness: 0, bumpMap: dirtTex, bumpScale: 0.6, envMapIntensity: 0.25 }), 0, 0, 0, { rx: -Math.PI / 2, cast: false });
   if (flip) ground.rotation.z = Math.PI;
   scene.add(ground);
+  const SURROUND = { fort: '#3d7426', clouds: '#e7c3e6', lava: '#2a1c16', attic: '#33221a', bay: '#d9e1e8', trenches: '#cfa962', pool: '#e2c18a', rocket: '#181c2d' };
+  scene.add(mesh(new THREE.PlaneGeometry(6000, 8000), new THREE.MeshStandardMaterial({ color: SURROUND[m.theme], roughness: 1, bumpMap: dirtTex, bumpScale: 0.6 }), 0, -0.5, 0, { rx: -Math.PI / 2, cast: false }));
 
   const nodes = {};
   for (const id in m.nodes) nodes[id] = P(m.nodes[id]);
@@ -386,6 +388,56 @@ export function buildBoard(mapId, flip) {
   return scene;
 }
 
+// Angled "arena" camera fitted so every base, H.Q. and standing troop is in frame.
+function fitCamera(m, flip, aspect) {
+  const P = (n) => (flip ? { x: 500 - n.x, z: 800 - n.y } : { x: n.x - 500, z: n.y - 800 });
+  const cam = new THREE.PerspectiveCamera(34, aspect, 10, 30000);
+  const el = (54 * Math.PI) / 180;
+  const pts = [];
+  for (const id in m.nodes) {
+    const p = P(m.nodes[id]), r = m.nodes[id].hq ? 100 : 80;
+    for (const [dx, dz] of [[-r, -r], [r, -r], [-r, r], [r, r]]) pts.push(new THREE.Vector3(p.x + dx, 0, p.z + dz));
+    pts.push(new THREE.Vector3(p.x, 170, p.z));
+  }
+  let tz = 0, d = 3000;
+  const place = () => { cam.position.set(0, Math.sin(el) * d, tz + Math.cos(el) * d); cam.lookAt(0, 0, tz); cam.updateMatrixWorld(); cam.updateProjectionMatrix(); };
+  const extent = () => { let mx = 0, ymin = 9, ymax = -9; for (const v of pts) { const q = v.clone().project(cam); mx = Math.max(mx, Math.abs(q.x)); ymin = Math.min(ymin, q.y); ymax = Math.max(ymax, q.y); } return { mx, ymin, ymax }; };
+  for (let it = 0; it < 8; it++) {
+    let lo = 300, hi = 20000;
+    for (let k = 0; k < 40; k++) { d = (lo + hi) / 2; place(); const e = extent(); (Math.max(e.mx, e.ymax, -e.ymin) > 0.97 ? (lo = d) : (hi = d)); }
+    d = hi; place();
+    const e = extent(), yc = (e.ymin + e.ymax) / 2;
+    if (Math.abs(yc) < 0.003) break;
+    tz -= yc * 400;
+  }
+  return { cam, P };
+}
+
+// Screen positions (in the 1000 x 1600 board image space) of every node and medal slot.
+export function boardLayout(mapId, flip) {
+  const m = MAPS[mapId];
+  const { cam, P } = fitCamera(m, flip, BW / BH);
+  const px = (v) => { const q = v.clone().project(cam); return [(q.x + 1) / 2 * BW, (1 - q.y) / 2 * BH]; };
+  const r3 = (n) => Math.round(n * 100) / 100;
+  const nodes = {};
+  for (const id in m.nodes) {
+    const p = P(m.nodes[id]), y = m.nodes[id].hq ? 0 : 20;
+    const c = px(new THREE.Vector3(p.x, y, p.z));
+    const l = px(new THREE.Vector3(p.x - 64, y, p.z)), r = px(new THREE.Vector3(p.x + 64, y, p.z));
+    const f = px(new THREE.Vector3(p.x, y, p.z - 64)), n = px(new THREE.Vector3(p.x, y, p.z + 64));
+    nodes[id] = [r3(c[0]), r3(c[1]), r3((r[0] - l[0]) / 128), r3((n[1] - f[1]) / 128)];
+  }
+  const medals = m.regions.map((rg) => {
+    const c = P({ x: rg.x, y: rg.y });
+    return [...Array(rg.medals)].map((_, k) => {
+      const x = c.x + (k - (rg.medals - 1) / 2) * 46;
+      const a = px(new THREE.Vector3(x, 1, c.z)), l = px(new THREE.Vector3(x - 23, 1, c.z)), rr = px(new THREE.Vector3(x + 23, 1, c.z));
+      return [r3(a[0]), r3(a[1]), r3((rr[0] - l[0]) / 46)];
+    });
+  });
+  return { nodes, medals };
+}
+
 export function renderBoardImage(mapId, flip, width = 1200, quality = 0.86) {
   const h = Math.round(width * 1.6);
   renderer.setPixelRatio(1);
@@ -393,10 +445,8 @@ export function renderBoardImage(mapId, flip, width = 1200, quality = 0.86) {
   renderer.setClearColor(0x000000, 1);
   renderer.toneMappingExposure = 0.82;
   const scene = buildBoard(mapId, flip);
-  const cam = new THREE.OrthographicCamera(-BW / 2, BW / 2, BH / 2, -BH / 2, 1, 5000);
-  cam.position.set(0, 2000, 0);
-  cam.up.set(0, 0, -1);
-  cam.lookAt(0, 0, 0);
+  const { cam } = fitCamera(MAPS[mapId], flip, BW / BH);
+  scene.fog = null;
   renderer.render(scene, cam);
   renderer.toneMappingExposure = 1.05;
   return renderer.domElement.toDataURL('image/jpeg', quality);

diff --git a/js/game.js b/js/game.js
@@ -59,7 +59,9 @@ export class GameView {
           <button class="draw-btn" type="button"></button>
           <div class="hand"></div>
         </div>
+        <div class="rack-meter"></div>
       </footer>
+      <div class="turn-banner"></div>
       <div class="drag-layer"></div>
       <div class="sheet-layer"></div>
     </div>`;
@@ -120,25 +122,38 @@ export class GameView {
     const P = s.players;
     const lockedOp = E.lockedSlots(s, op);
     const sniping = this.myTurn && s.pending?.kind === 'snipe';
+    this.$('.game').dataset.theme = m.theme;
+    const plate = (c, who) => `
+      <div class="plate ${c} ${s.current === c && s.phase !== 'over' ? 'active' : ''}">
+        <div class="plate-avatar">${troopArt(who === 'op' ? 7 : 2, c)}</div>
+        <div class="plate-info"><div class="pname">${esc(this.o.names[c])}</div><div class="plate-sub">Reserve ${P[c].reserve.length} · Rack ${P[c].rack.length}/8</div></div>
+        <div class="plate-medals"><img src="assets/medal.png" alt=""><b>${P[c].medals}</b><small>/${m.objective}</small></div>
+      </div>`;
     this.$('.hud-top').innerHTML = `
       <button class="icon-btn back" data-act="menu" aria-label="Menu">☰</button>
-      <div class="player-tag ${op} ${s.current === op && s.phase !== 'over' ? 'active' : ''}">
-        <div class="avatar">${troopArt(7, op)}</div>
-        <div><div class="pname">${esc(this.o.names[op])}</div>
-        <div class="pstats"><span class="medal-ico"></span>${P[op].medals}/${m.objective} · reserve ${P[op].reserve.length}</div></div>
-      </div>
+      ${plate(op, 'op')}
       <div class="op-rack ${sniping ? 'sniping' : ''}">${P[op].rack.map((_, i) => cardBackHTML(op, lockedOp[i], i)).join('')}</div>`;
 
     // my HUD
     const turnText = s.phase === 'over' ? 'Game over'
       : this.passScreen ? '' : s.current === me ? (s.pending ? 'Resolve effect' : 'Your turn') : `${esc(this.o.names[op])}'s turn…`;
     this.$('.hud-me').innerHTML = `
-      <div class="player-tag ${me} ${s.current === me && s.phase !== 'over' ? 'active' : ''}">
-        <div class="pname">${esc(this.o.names[me])}</div>
-        <div class="pstats"><span class="medal-ico"></span><b>${P[me].medals}</b>/${m.objective}</div>
-      </div>
+      ${plate(me, 'me')}
       <div class="turn-pill ${s.current === me ? 'mine' : ''}">${turnText}</div>
       <button class="discard-btn" data-act="discard">🗑 ${s.discard.length}</button>`;
+
+    // rack meter (8 slots)
+    const lockedMe = E.lockedSlots(s, me);
+    this.$('.rack-meter').innerHTML = `<div class="rm-bar ${me}">${[...Array(8)].map((_, i) => `<i class="${i < P[me].rack.length ? (lockedMe[i] ? 'on pin' : 'on') : ''}"></i>`).join('')}</div><span class="rm-label">${P[me].rack.length}<small>/8</small></span>`;
+
+    // big "your turn" banner when the turn comes to you
+    const mineNow = this.myTurn && !s.pending;
+    if (mineNow && !this.wasMine && s.phase !== 'over') {
+      const tb = this.$('.turn-banner');
+      tb.innerHTML = `<div class="tb-inner ${me}">YOUR TURN!</div>`;
+      tb.classList.remove('show'); void tb.offsetWidth; tb.classList.add('show');
+    }
+    this.wasMine = mineNow;
 
     // draw button
     const canDraw = this.myTurn && !s.pending && E.canDraw(s, me);
@@ -168,6 +183,9 @@ export class GameView {
 
     this.renderPrompt();
     this.renderOverlay();
+    const g = this.$('.game'), tray = this.$('.hand-area').offsetHeight, top = this.$('.hud-top').offsetHeight;
+    g.style.setProperty('--tray-h', tray + 'px');
+    g.style.setProperty('--top-h', Math.max(0, top - 22) + 'px');
   }
 
   canSelectCards() {
